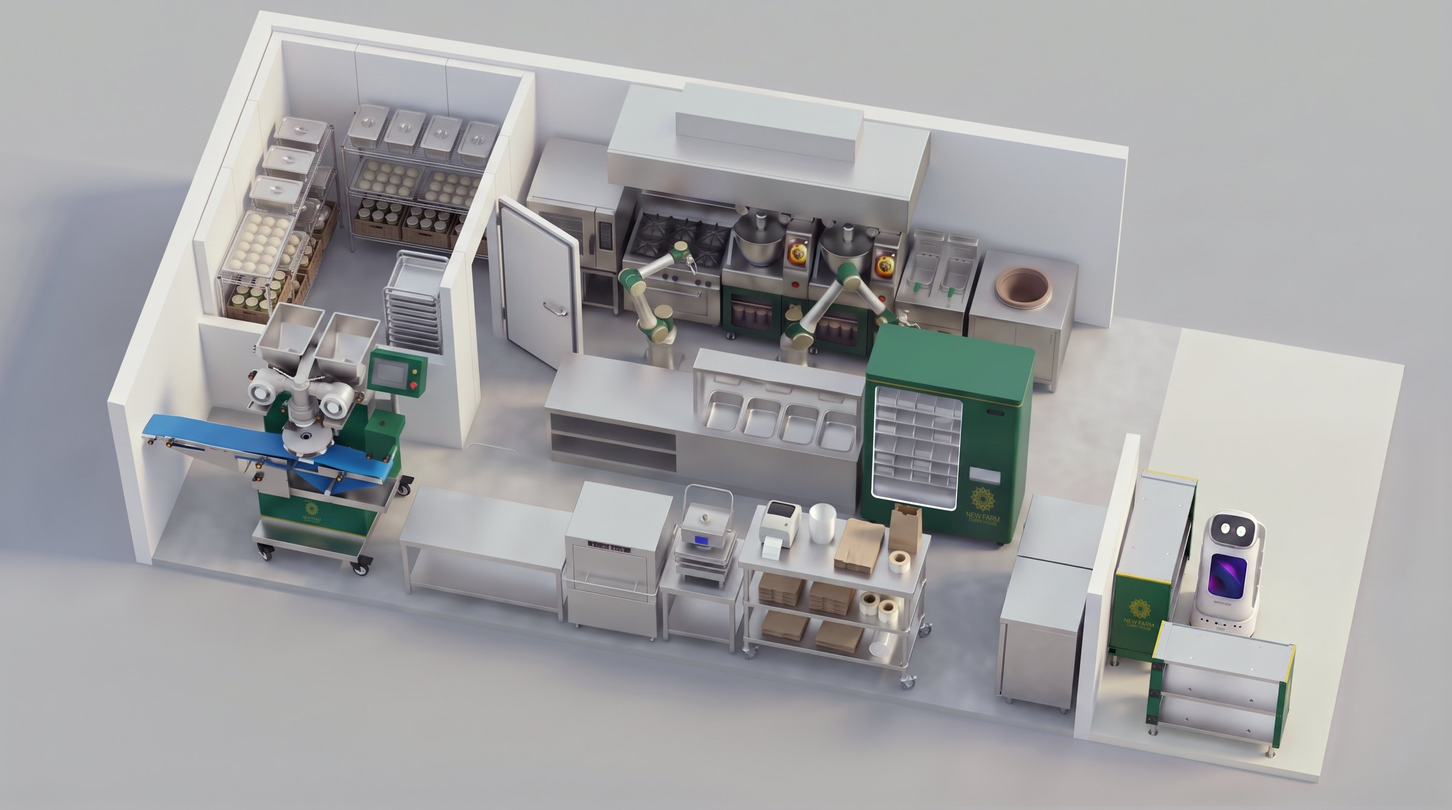
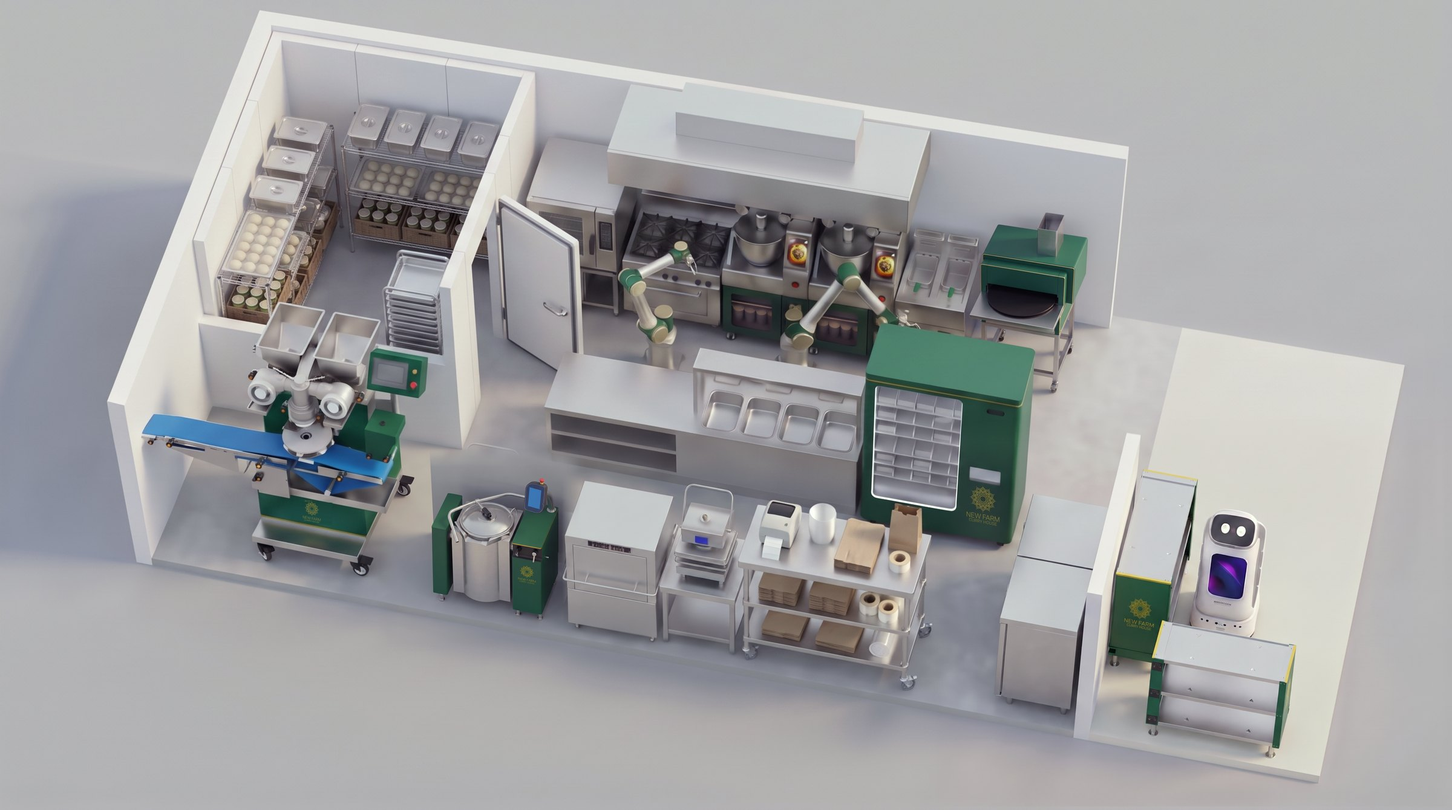
NFCH kitchen deck: the turning oven, the gravy kettle and the mixer
The tandoor page becomes the turning naan oven, the burners page becomes
the gravy kettle (the bases move to it), the dough page shows the mixer,
the bases page says the kettle cooks them, and the Later page goes: both
machines on it are now in the kitchen. To settle folds the oven trial
into one bread item, so the page still fits.

Changed region(s): [[0.2812, 0.5507, 0.4062, 0.7649], [0.6562, 0.2448, 0.75, 0.4896]]

diff --git a/deck/new-farm-curry-house-kitchen/index.html b/deck/new-farm-curry-house-kitchen/index.html
@@ -667,36 +667,33 @@
 <section class="stage" id="s2" data-nk="machines" aria-label="Slide 2. The plan">
   <div class="slide"><div class="in nf nk">
     <p class="lab r">The plan</p>
-    <h2 class="l r">Your line, rearranged around two arms, with fourteen new pieces in all.</h2>
+    <h2 class="l r">Your line, rearranged around two arms, with seventeen new pieces in all.</h2>
     <div class="nk-plan r">
-      <div><h3>Yours, as they are</h3><ul class="nk-dishes"><li>Cold room</li><li>Dry store</li><li>Combi oven</li><li>Six burners</li><li>Twin fryer</li><li>Clay tandoor</li><li>Island fridges</li><li>Bar</li></ul></div>
-      <div><h3>New</h3><ul class="nk-dishes"><li>Line fridge</li><li>Finishing stations</li><li>Curry arm</li><li>Fry arm</li><li>Bowls and tubs</li><li>Filling machine</li><li>Naan press</li><li>Hot hold</li><li>The pass</li><li>Pack bench</li><li>Label printer</li><li>Heated shelf</li><li>Driver shelf</li><li>The server</li></ul></div>
-      <div><h3>Out, and to find</h3><ul class="nk-dishes"><li>Stock pot boiler, comes out</li><li>Freezer, to find</li><li>Spiral mixer, to find</li></ul></div>
+      <div><h3>Yours, as they are</h3><ul class="nk-dishes"><li>Cold room</li><li>Dry store</li><li>Combi oven</li><li>Six burners</li><li>Twin fryer</li><li>Island fridges</li><li>Bar</li></ul></div>
+      <div><h3>New</h3><ul class="nk-dishes"><li>Turning naan oven</li><li>Gravy kettle</li><li>Line fridge</li><li>Finishing stations</li><li>Curry arm</li><li>Fry arm</li><li>Bowls and tubs</li><li>Filling machine</li><li>Naan press</li><li>Hot hold</li><li>The pass</li><li>Pack bench</li><li>Label printer</li><li>Heated shelf</li><li>Driver shelf</li><li>The server</li><li>Spiral mixer</li></ul></div>
+      <div><h3>Out, and to find</h3><ul class="nk-dishes"><li>Stock pot boiler, comes out</li><li>Clay tandoor, comes out</li><li>Freezer, to find</li></ul></div>
     </div>
     <div class="foot"><p>New Farm Curry House: concept</p><p>02</p></div>
   </div></div>
 </section>
 
-<section class="stage" id="s3" data-nk="machines" aria-label="Slide 3. Your six burners">
-  <div class="slide"><div class="in nf nk nk-pg">
-    <p class="lab r">Your six burners</p>
-    <h2 class="l r">The six bases before opening, the chef&#x27;s own dishes after.</h2>
-    <p class="lede r">The stock pot boiler comes out to make room for the arms. Each base cooks in a big pot on the burners before service, from a sealed spice kit Chef Mahesh weighed, so the recipe stays his and never lives in a machine.</p>
+<section class="stage" id="s3" data-nk="machines" aria-label="Slide 3. New: the gravy kettle">
+  <div class="slide"><div class="in nf nk nk-pg nk-has-pic">
+    <p class="lab r">New: the gravy kettle</p>
+    <h2 class="l r">The six bases cook and stir themselves; your burners belong to the chef again.</h2>
+    <p class="lede r">By the cold room, under its own hood: each base cooks from Chef Mahesh&#x27;s sealed spice kit to his program, then chills next door.</p>
+    <div class="nk-figs r"><figure class="nk-pic"><img src="../../img/deck/nfch/machines/gravy-kettle-light.jpg" width="1208" height="1500" alt="Gravy kettle, concept render" loading="lazy"><figcaption>Concept render</figcaption></figure></div>
     <dl class="nk-mach r">
-      <dt class="nk-st">Six burners</dt><dd class="nk-st"></dd>
+      <dt class="nk-st">Gravy kettle<span class="nk-new">New</span></dt><dd class="nk-st"></dd>
       <dt>Cooks the six bases before service</dt>
       <dd><ul class="nk-dishes"><li>Butter Chicken</li><li>Paneer Butter Masala</li><li>Chicken Tikka Masala</li><li>Murg Balti</li><li>Chicken Curry</li><li>Lamb Rogan Josh</li><li>Aloo Baingan Bagarey</li><li>Chicken Korma</li><li>Lamb Korma</li><li>Chicken Cashew</li><li>Lamb Cashew</li><li>Chicken Vindaloo</li><li>Beef Vindaloo</li><li>Beef Goan</li><li>Prawn Goan</li><li>Palak Paneer</li><li>Aloo Gobhi</li><li>Goat Curry</li><li>Eggplant Pasanda</li><li>Butter Chicken Burrito</li><li>Paneer Butter Masala Burrito</li></ul></dd>
+      <dt class="nk-st">Six burners</dt><dd class="nk-st"></dd>
       <dt>Pan dishes to order</dt>
       <dd><ul class="nk-dishes"><li>Aloo Gobhi</li></ul></dd>
       <dt>The tadka</dt>
       <dd><ul class="nk-dishes"><li>Tadka Daal</li></ul></dd>
       <dt>By hand, the chef&#x27;s own</dt>
       <dd><ul class="nk-dishes"><li>Chicken Nilgiri</li><li>Eggplant Pasanda</li></ul></dd>
-      <dt class="nk-st">Dry store</dt><dd class="nk-st"></dd>
-      <dt>Holds the flour</dt>
-      <dd><ul class="nk-dishes"><li>Plain Naan</li><li>Garlic Naan</li><li>Cheese and Garlic Naan</li><li>Spinach and Cheese Naan</li><li>Tasty Cheese Naan</li><li>Roti Naan</li></ul></dd>
-      <dt>Holds the wraps</dt>
-      <dd><ul class="nk-dishes"><li>Butter Chicken Burrito</li><li>Paneer Butter Masala Burrito</li></ul></dd>
     </dl>
     <div class="foot"><p>New Farm Curry House: concept</p><p>03</p></div>
   </div></div>
@@ -732,14 +729,16 @@
   </div></div>
 </section>
 
-<section class="stage" id="s5" data-nk="machines" aria-label="Slide 5. Your tandoor">
-  <div class="slide"><div class="in nf nk nk-pg">
-    <p class="lab r">Your tandoor</p>
-    <h2 class="l r">Where the bread stays in the tandoor cook&#x27;s hands.</h2>
+<section class="stage" id="s5" data-nk="machines" aria-label="Slide 5. New: the turning naan oven">
+  <div class="slide"><div class="in nf nk nk-pg nk-has-pic">
+    <p class="lab r">New: the turning naan oven</p>
+    <h2 class="l r">Naan, roti and paratha come round baked, up to 300 an hour.</h2>
+    <p class="lede r">In your tandoor&#x27;s corner, the oven you found: a pressed ball goes on the hot plate and comes round baked. The tikka grills on it too, to trial against your tandoor before the tandoor goes.</p>
+    <div class="nk-figs r"><figure class="nk-pic"><img src="../../img/deck/nfch/machines/naan-oven-light.jpg" width="1208" height="1500" alt="Turning naan oven, concept render" loading="lazy"><figcaption>Concept render</figcaption></figure></div>
     <dl class="nk-mach r">
       <dt>Bakes the breads</dt>
       <dd><ul class="nk-dishes"><li>Plain Naan</li><li>Garlic Naan</li><li>Cheese and Garlic Naan</li><li>Spinach and Cheese Naan</li><li>Tasty Cheese Naan</li><li>Roti Naan</li><li>Laccha Paratha</li></ul></dd>
-      <dt>Cooks the tikka</dt>
+      <dt>Grills the tikka</dt>
       <dd><ul class="nk-dishes"><li>Chicken Tikka</li></ul></dd>
     </dl>
     <div class="foot"><p>New Farm Curry House: concept</p><p>05</p></div>
@@ -839,8 +838,8 @@
   <div class="slide"><div class="in nf nk nk-pg nk-has-pic nk-has-pics">
     <p class="lab r">New: the filling machine and the press</p>
     <h2 class="l r">Your idea: every naan the same, filled or plain.</h2>
-    <p class="lede r">Dough mixed the afternoon before rests cold overnight, then goes in the hopper with the filling and the machine closes each ball. When an order comes in, a ball is pressed flat, stretched by hand into its teardrop and onto your tandoor wall.</p>
-    <div class="nk-figs r"><figure class="nk-pic"><img src="../../img/deck/nfch/machines/filling-machine-light.jpg" width="1208" height="1500" alt="filling machine, concept: filling machine" loading="lazy"><figcaption>Concept: filling machine</figcaption></figure><figure class="nk-pic"><img src="../../img/deck/nfch/machines/naan-press-light.jpg" width="1208" height="1500" alt="naan press, concept: naan press" loading="lazy"><figcaption>Concept: naan press</figcaption></figure></div>
+    <p class="lede r">The mixer kneads the dough the afternoon before; it rests cold overnight, then the filling machine closes each ball. When an order comes in, a ball is pressed flat and goes onto the turning oven.</p>
+    <div class="nk-figs r"><figure class="nk-pic"><img src="../../img/deck/nfch/machines/mixer-light.jpg" width="1208" height="1500" alt="spiral mixer, concept: spiral mixer" loading="lazy"><figcaption>Concept: spiral mixer</figcaption></figure><figure class="nk-pic"><img src="../../img/deck/nfch/machines/filling-machine-light.jpg" width="1208" height="1500" alt="filling machine, concept: filling machine" loading="lazy"><figcaption>Concept: filling machine</figcaption></figure><figure class="nk-pic"><img src="../../img/deck/nfch/machines/naan-press-light.jpg" width="1208" height="1500" alt="naan press, concept: naan press" loading="lazy"><figcaption>Concept: naan press</figcaption></figure></div>
     <dl class="nk-mach r">
       <dt class="nk-st">Filling machine<span class="nk-new">New</span></dt><dd class="nk-st"></dd>
       <dt>Closes the dough balls</dt>
@@ -893,7 +892,7 @@
       <div><h3>Goan</h3><p>Beef Goan, Prawn Goan</p></div>
       <div><h3>Palak</h3><p>Palak Paneer</p></div>
     </div>
-    <ul class="nk-dishes r"><li>Cooked in big pots on your burners, before service</li><li>Chicken Nilgiri and Tadka Daal stand on their own</li></ul>
+    <ul class="nk-dishes r"><li>Cooked in the gravy kettle before service, to Chef Mahesh&rsquo;s program</li><li>Chicken Nilgiri and Tadka Daal stand on their own</li></ul>
     <div class="foot"><p>New Farm Curry House: concept</p><p>13</p></div>
   </div></div>
 </section>
@@ -950,7 +949,7 @@
   <div class="slide"><div class="in nf nk">
     <p class="lab r">One order, start to finish</p>
     <h2 class="l r">A butter chicken, from the morning pot to the table or the driver's bag.</h2>
-    <ol class="nk-track r" style="grid-template-rows:repeat(4,auto)"><li><b>Six burners</b><span>Before service: tadka in ghee, then the makhani base in a big pot on the burners, stirred, about two hours</span><i>2 h</i></li><li><b>Cold room</b><span>Chicken breast in the tandoori marinade, overnight</span></li><li><b>Combi oven</b><span>Roasted on trays, combi steam and dry heat, 18 minutes, then diced</span><i>18 min</i></li><li><b>Cold room</b><span>Base and protein weighed into one kit pot per dish, lidded, labelled</span></li><li><b>Line fridge</b><span>Hands out the Butter Chicken kit to the arm: makhani base, tandoori chicken and a cube of butter</span><i>20 s</i></li><li><b>Curry arm</b><span>The curry arm tips the kit into a free drum</span><i>15 s</i></li><li><b>Finishing stations</b><span>The station heats and stirs it, then measures in cream, by weight, to the chef&#x27;s program</span><i>2.5 min</i></li><li><b>Finishing stations</b><span>A full rinse, because this gravy carries nuts</span><i>45 s</i></li><li><b>Bowls and tubs</b><span>A bowl for the table or a tub for a driver, as the order says</span><i>3 s</i></li><li><b>Curry arm</b><span>The arm pours it into the bowl or tub and sets it on the pass</span><i>20 s</i></li><li class="nk-end"><b>Dine-in: the pass</b><span>Into the serving bowl, finished with a swirl of cream</span><i>25 s</i></li><li class="nk-end"><b>Delivery: the pack bench</b><span>Into a 650 ml tub, lid pressed down, a swirl of cream in a side pot so it arrives fresh</span><i>35 s</i></li></ol>
+    <ol class="nk-track r" style="grid-template-rows:repeat(4,auto)"><li><b>Gravy kettle</b><span>Before service: the tadka in ghee, then the makhani base, cooked and stirred by the kettle to Chef Mahesh&#x27;s program, about two hours</span><i>2 h</i></li><li><b>Cold room</b><span>Chicken breast in the tandoori marinade, overnight</span></li><li><b>Combi oven</b><span>Roasted on trays, combi steam and dry heat, 18 minutes, then diced</span><i>18 min</i></li><li><b>Cold room</b><span>Base and protein weighed into one kit pot per dish, lidded, labelled</span></li><li><b>Line fridge</b><span>Hands out the Butter Chicken kit to the arm: makhani base, tandoori chicken and a cube of butter</span><i>20 s</i></li><li><b>Curry arm</b><span>The curry arm tips the kit into a free drum</span><i>15 s</i></li><li><b>Finishing stations</b><span>The station heats and stirs it, then measures in cream, by weight, to the chef&#x27;s program</span><i>2.5 min</i></li><li><b>Finishing stations</b><span>A full rinse, because this gravy carries nuts</span><i>45 s</i></li><li><b>Bowls and tubs</b><span>A bowl for the table or a tub for a driver, as the order says</span><i>3 s</i></li><li><b>Curry arm</b><span>The arm pours it into the bowl or tub and sets it on the pass</span><i>20 s</i></li><li class="nk-end"><b>Dine-in: the pass</b><span>Into the serving bowl, finished with a swirl of cream</span><i>25 s</i></li><li class="nk-end"><b>Delivery: the pack bench</b><span>Into a 650 ml tub, lid pressed down, a swirl of cream in a side pot so it arrives fresh</span><i>35 s</i></li></ol>
     <div class="foot"><p>New Farm Curry House: concept</p><p>17</p></div>
   </div></div>
 </section>
@@ -991,19 +990,7 @@
   </div></div>
 </section>
 
-<section class="stage" id="s21" aria-label="Slide 21. Later">
-  <div class="slide"><div class="in nf nk">
-    <p class="lab r">Later</p>
-    <h2 class="l r">Two machines wait until your kitchen asks for them.</h2>
-    <div class="three r">
-      <div><h3>A self-stirring kettle</h3><p>The bases cook for hours with nobody at the pot. It saves the most hours of anything here, so it comes first when you are ready.</p></div>
-      <div><h3>A turning naan oven</h3><p>Naan without a tandoor cook. Worth its place only if the tandoor is to retire.</p></div>
-    </div>
-    <div class="foot"><p>New Farm Curry House: concept</p><p>21</p></div>
-  </div></div>
-</section>
-
-<section class="stage" id="s22" data-nk="settle" aria-label="Slide 22. To settle">
+<section class="stage" id="s21" data-nk="settle" aria-label="Slide 21. To settle">
   <div class="slide"><div class="in nf nk">
     <p class="lab r">To settle</p>
     <h2 class="l r">Six answers from your kitchen, before anything is ordered.</h2>
@@ -1011,24 +998,24 @@
       <div><h3>The six bases</h3><p>Whether your curries sit on six gravies, whether Tikka Masala and Balti start from makhani or masala, and how much of each spice, paste and cream the stations measure in at the finish.</p></div>
       <div><h3>Your busiest hour</h3><p>Played on the kitchen screen with the arms: two finishing stations serve a busy night of forty orders in about sixteen minutes a table, and a Friday of sixty in about eighteen with a second cook at the burners. On one station, the busy night waits thirty-seven. How many do you send on a Friday at eight?</p></div>
       <div><h3>Nuts</h3><p>Eleven dishes from the station carry almond or cashew. One station rinsed after each, or two: one for nut gravies, one nut free, which also answers the busy night.</p></div>
-      <div><h3>Your dough</h3><p>A trial of your naan dough on the filling machine, plain and with cheese; your mixer, as your plan shows none, and a busy night&#x27;s naan count; your rest times; and whether the laccha stays rolled by hand or comes in frozen.</p></div>
-      <div><h3>Your line, up close</h3><p>Photos of the line, the plates on the combi, burners, fryer and tandoor, and where your freezer is.</p></div>
+      <div><h3>Your breads</h3><p>Your dough through the mixer and filling machine, and your naan, roti and tikka on the turning oven beside your tandoor before it goes; a busy night&#x27;s naan count; laccha by hand or frozen.</p></div>
+      <div><h3>Your line, up close</h3><p>Photos of the line, the plates on the combi, burners and fryer, your back bench, and where your freezer is.</p></div>
       <div><h3>Power and water</h3><p>Three-phase to the two finishing stations, power and a network point for the arms and the line fridge, a look at your switchboard, a hand basin and a pre-rinse sink, neither drawn on your plan.</p></div>
     </div>
-    <div class="foot"><p>New Farm Curry House: concept</p><p>22</p></div>
+    <div class="foot"><p>New Farm Curry House: concept</p><p>21</p></div>
   </div></div>
 </section>
 
-<section class="stage" id="s23" aria-label="Slide 23. Ownership">
+<section class="stage" id="s22" aria-label="Slide 22. Ownership">
   <div class="slide"><div class="in say-it own nf">
     <p class="lab r">Ownership</p>
     <h2 class="big r">This concept is ours until it is yours.</h2>
     <p class="own-text r">The concepts in this deck, the stations, the plan for your line, the dish tracks and the kitchen screen, the match of your menu to the machines that cook it and the way the spices are kept, and this deck itself, belong to Wonder Byte Technology Pty Ltd (ACN 649 247 156), trading as Wonder Robotics, and are shared in confidence for evaluation only. Without a signed agreement and the deposit paid, none of it may be used, copied, adapted, shared or built, and nor may anything substantially similar to it in look, layout or design, by you or by anyone acting for you. The New Farm Curry House name, marks, menu and recipes are yours, and so are your own ideas in it, the filled naan among them.</p>
-    <div class="foot"><p>&copy; 2026 Wonder Byte Technology Pty Ltd, trading as Wonder Robotics</p><p>23</p></div>
+    <div class="foot"><p>&copy; 2026 Wonder Byte Technology Pty Ltd, trading as Wonder Robotics</p><p>22</p></div>
   </div></div>
 </section>
 
-<section class="stage" id="s24" aria-label="Slide 24. Wonder Robotics, Fortitude Valley">
+<section class="stage" id="s23" aria-label="Slide 23. Wonder Robotics, Fortitude Valley">
   <div class="slide"><div class="in hero">
     <picture><source media="(max-width:760px)" srcset="../../img/hero-bot.jpg"><img class="bg" src="../../img/hero-bot-wide.jpg" width="4800" height="1340" alt="W-1, the Wonder robot, in his studio"></picture>
     <div class="wrap">
@@ -1044,7 +1031,7 @@
 </section>
 <script src="/shared/viewed.js" defer></script>
 
-<section class="stage" id="s25" aria-label="Slide 25. Wonder Robotics, Fortitude Valley">
+<section class="stage" id="s24" aria-label="Slide 24. Wonder Robotics, Fortitude Valley">
   <div class="slide"><div class="in hero">
     <picture><source media="(max-width:760px)" srcset="../../img/hero-bot.jpg"><img class="bg" src="../../img/hero-bot-wide.jpg" width="4800" height="1340" alt="W-1, the Wonder robot, in his studio"></picture>
     <div class="wrap">
@@ -1133,7 +1120,7 @@
 
 <nav class="nav" aria-label="Slide controls">
   <button type="button" id="prev" aria-label="Previous slide">&#8592;</button>
-  <output id="count" aria-live="polite">01 / 25</output>
+  <output id="count" aria-live="polite">01 / 24</output>
   <button type="button" id="next" aria-label="Next slide">&#8594;</button>
   <button type="button" id="full" aria-label="Full screen">&#x26F6;</button>
 </nav>

diff --git a/src/new-farm-curry-house-kitchen-slides.html b/src/new-farm-curry-house-kitchen-slides.html
@@ -165,36 +165,33 @@
 <section class="stage" id="s{{i}}" data-nk="machines" aria-label="Slide {{i}}. The plan">
   <div class="slide"><div class="in nf nk">
     <p class="lab r">The plan</p>
-    <h2 class="l r">Your line, rearranged around two arms, with fourteen new pieces in all.</h2>
+    <h2 class="l r">Your line, rearranged around two arms, with seventeen new pieces in all.</h2>
     <div class="nk-plan r">
-      <div><h3>Yours, as they are</h3><ul class="nk-dishes"><li>Cold room</li><li>Dry store</li><li>Combi oven</li><li>Six burners</li><li>Twin fryer</li><li>Clay tandoor</li><li>Island fridges</li><li>Bar</li></ul></div>
-      <div><h3>New</h3><ul class="nk-dishes"><li>Line fridge</li><li>Finishing stations</li><li>Curry arm</li><li>Fry arm</li><li>Bowls and tubs</li><li>Filling machine</li><li>Naan press</li><li>Hot hold</li><li>The pass</li><li>Pack bench</li><li>Label printer</li><li>Heated shelf</li><li>Driver shelf</li><li>The server</li></ul></div>
-      <div><h3>Out, and to find</h3><ul class="nk-dishes"><li>Stock pot boiler, comes out</li><li>Freezer, to find</li><li>Spiral mixer, to find</li></ul></div>
+      <div><h3>Yours, as they are</h3><ul class="nk-dishes"><li>Cold room</li><li>Dry store</li><li>Combi oven</li><li>Six burners</li><li>Twin fryer</li><li>Island fridges</li><li>Bar</li></ul></div>
+      <div><h3>New</h3><ul class="nk-dishes"><li>Turning naan oven</li><li>Gravy kettle</li><li>Line fridge</li><li>Finishing stations</li><li>Curry arm</li><li>Fry arm</li><li>Bowls and tubs</li><li>Filling machine</li><li>Naan press</li><li>Hot hold</li><li>The pass</li><li>Pack bench</li><li>Label printer</li><li>Heated shelf</li><li>Driver shelf</li><li>The server</li><li>Spiral mixer</li></ul></div>
+      <div><h3>Out, and to find</h3><ul class="nk-dishes"><li>Stock pot boiler, comes out</li><li>Clay tandoor, comes out</li><li>Freezer, to find</li></ul></div>
     </div>
     <div class="foot"><p>New Farm Curry House: concept</p><p>{{n}}</p></div>
   </div></div>
 </section>
 
-<section class="stage" id="s{{i}}" data-nk="machines" aria-label="Slide {{i}}. Your six burners">
-  <div class="slide"><div class="in nf nk nk-pg">
-    <p class="lab r">Your six burners</p>
-    <h2 class="l r">The six bases before opening, the chef&#x27;s own dishes after.</h2>
-    <p class="lede r">The stock pot boiler comes out to make room for the arms. Each base cooks in a big pot on the burners before service, from a sealed spice kit Chef Mahesh weighed, so the recipe stays his and never lives in a machine.</p>
+<section class="stage" id="s{{i}}" data-nk="machines" aria-label="Slide {{i}}. New: the gravy kettle">
+  <div class="slide"><div class="in nf nk nk-pg nk-has-pic">
+    <p class="lab r">New: the gravy kettle</p>
+    <h2 class="l r">The six bases cook and stir themselves; your burners belong to the chef again.</h2>
+    <p class="lede r">By the cold room, under its own hood: each base cooks from Chef Mahesh&#x27;s sealed spice kit to his program, then chills next door.</p>
+    <div class="nk-figs r"><figure class="nk-pic"><img src="{{root}}img/deck/nfch/machines/gravy-kettle-light.jpg" width="1208" height="1500" alt="Gravy kettle, concept render" loading="lazy"><figcaption>Concept render</figcaption></figure></div>
     <dl class="nk-mach r">
-      <dt class="nk-st">Six burners</dt><dd class="nk-st"></dd>
+      <dt class="nk-st">Gravy kettle<span class="nk-new">New</span></dt><dd class="nk-st"></dd>
       <dt>Cooks the six bases before service</dt>
       <dd><ul class="nk-dishes"><li>Butter Chicken</li><li>Paneer Butter Masala</li><li>Chicken Tikka Masala</li><li>Murg Balti</li><li>Chicken Curry</li><li>Lamb Rogan Josh</li><li>Aloo Baingan Bagarey</li><li>Chicken Korma</li><li>Lamb Korma</li><li>Chicken Cashew</li><li>Lamb Cashew</li><li>Chicken Vindaloo</li><li>Beef Vindaloo</li><li>Beef Goan</li><li>Prawn Goan</li><li>Palak Paneer</li><li>Aloo Gobhi</li><li>Goat Curry</li><li>Eggplant Pasanda</li><li>Butter Chicken Burrito</li><li>Paneer Butter Masala Burrito</li></ul></dd>
+      <dt class="nk-st">Six burners</dt><dd class="nk-st"></dd>
       <dt>Pan dishes to order</dt>
       <dd><ul class="nk-dishes"><li>Aloo Gobhi</li></ul></dd>
       <dt>The tadka</dt>
       <dd><ul class="nk-dishes"><li>Tadka Daal</li></ul></dd>
       <dt>By hand, the chef&#x27;s own</dt>
       <dd><ul class="nk-dishes"><li>Chicken Nilgiri</li><li>Eggplant Pasanda</li></ul></dd>
-      <dt class="nk-st">Dry store</dt><dd class="nk-st"></dd>
-      <dt>Holds the flour</dt>
-      <dd><ul class="nk-dishes"><li>Plain Naan</li><li>Garlic Naan</li><li>Cheese and Garlic Naan</li><li>Spinach and Cheese Naan</li><li>Tasty Cheese Naan</li><li>Roti Naan</li></ul></dd>
-      <dt>Holds the wraps</dt>
-      <dd><ul class="nk-dishes"><li>Butter Chicken Burrito</li><li>Paneer Butter Masala Burrito</li></ul></dd>
     </dl>
     <div class="foot"><p>New Farm Curry House: concept</p><p>{{n}}</p></div>
   </div></div>
@@ -230,14 +227,16 @@
   </div></div>
 </section>
 
-<section class="stage" id="s{{i}}" data-nk="machines" aria-label="Slide {{i}}. Your tandoor">
-  <div class="slide"><div class="in nf nk nk-pg">
-    <p class="lab r">Your tandoor</p>
-    <h2 class="l r">Where the bread stays in the tandoor cook&#x27;s hands.</h2>
+<section class="stage" id="s{{i}}" data-nk="machines" aria-label="Slide {{i}}. New: the turning naan oven">
+  <div class="slide"><div class="in nf nk nk-pg nk-has-pic">
+    <p class="lab r">New: the turning naan oven</p>
+    <h2 class="l r">Naan, roti and paratha come round baked, up to 300 an hour.</h2>
+    <p class="lede r">In your tandoor&#x27;s corner, the oven you found: a pressed ball goes on the hot plate and comes round baked. The tikka grills on it too, to trial against your tandoor before the tandoor goes.</p>
+    <div class="nk-figs r"><figure class="nk-pic"><img src="{{root}}img/deck/nfch/machines/naan-oven-light.jpg" width="1208" height="1500" alt="Turning naan oven, concept render" loading="lazy"><figcaption>Concept render</figcaption></figure></div>
     <dl class="nk-mach r">
       <dt>Bakes the breads</dt>
       <dd><ul class="nk-dishes"><li>Plain Naan</li><li>Garlic Naan</li><li>Cheese and Garlic Naan</li><li>Spinach and Cheese Naan</li><li>Tasty Cheese Naan</li><li>Roti Naan</li><li>Laccha Paratha</li></ul></dd>
-      <dt>Cooks the tikka</dt>
+      <dt>Grills the tikka</dt>
       <dd><ul class="nk-dishes"><li>Chicken Tikka</li></ul></dd>
     </dl>
     <div class="foot"><p>New Farm Curry House: concept</p><p>{{n}}</p></div>
@@ -337,8 +336,8 @@
   <div class="slide"><div class="in nf nk nk-pg nk-has-pic nk-has-pics">
     <p class="lab r">New: the filling machine and the press</p>
     <h2 class="l r">Your idea: every naan the same, filled or plain.</h2>
-    <p class="lede r">Dough mixed the afternoon before rests cold overnight, then goes in the hopper with the filling and the machine closes each ball. When an order comes in, a ball is pressed flat, stretched by hand into its teardrop and onto your tandoor wall.</p>
-    <div class="nk-figs r"><figure class="nk-pic"><img src="{{root}}img/deck/nfch/machines/filling-machine-light.jpg" width="1208" height="1500" alt="filling machine, concept: filling machine" loading="lazy"><figcaption>Concept: filling machine</figcaption></figure><figure class="nk-pic"><img src="{{root}}img/deck/nfch/machines/naan-press-light.jpg" width="1208" height="1500" alt="naan press, concept: naan press" loading="lazy"><figcaption>Concept: naan press</figcaption></figure></div>
+    <p class="lede r">The mixer kneads the dough the afternoon before; it rests cold overnight, then the filling machine closes each ball. When an order comes in, a ball is pressed flat and goes onto the turning oven.</p>
+    <div class="nk-figs r"><figure class="nk-pic"><img src="{{root}}img/deck/nfch/machines/mixer-light.jpg" width="1208" height="1500" alt="spiral mixer, concept: spiral mixer" loading="lazy"><figcaption>Concept: spiral mixer</figcaption></figure><figure class="nk-pic"><img src="{{root}}img/deck/nfch/machines/filling-machine-light.jpg" width="1208" height="1500" alt="filling machine, concept: filling machine" loading="lazy"><figcaption>Concept: filling machine</figcaption></figure><figure class="nk-pic"><img src="{{root}}img/deck/nfch/machines/naan-press-light.jpg" width="1208" height="1500" alt="naan press, concept: naan press" loading="lazy"><figcaption>Concept: naan press</figcaption></figure></div>
     <dl class="nk-mach r">
       <dt class="nk-st">Filling machine<span class="nk-new">New</span></dt><dd class="nk-st"></dd>
       <dt>Closes the dough balls</dt>
@@ -391,7 +390,7 @@
       <div><h3>Goan</h3><p>Beef Goan, Prawn Goan</p></div>
       <div><h3>Palak</h3><p>Palak Paneer</p></div>
     </div>
-    <ul class="nk-dishes r"><li>Cooked in big pots on your burners, before service</li><li>Chicken Nilgiri and Tadka Daal stand on their own</li></ul>
+    <ul class="nk-dishes r"><li>Cooked in the gravy kettle before service, to Chef Mahesh&rsquo;s program</li><li>Chicken Nilgiri and Tadka Daal stand on their own</li></ul>
     <div class="foot"><p>New Farm Curry House: concept</p><p>{{n}}</p></div>
   </div></div>
 </section>
@@ -448,7 +447,7 @@
   <div class="slide"><div class="in nf nk">
     <p class="lab r">One order, start to finish</p>
     <h2 class="l r">A butter chicken, from the morning pot to the table or the driver's bag.</h2>
-    <ol class="nk-track r" style="grid-template-rows:repeat(4,auto)"><li><b>Six burners</b><span>Before service: tadka in ghee, then the makhani base in a big pot on the burners, stirred, about two hours</span><i>2 h</i></li><li><b>Cold room</b><span>Chicken breast in the tandoori marinade, overnight</span></li><li><b>Combi oven</b><span>Roasted on trays, combi steam and dry heat, 18 minutes, then diced</span><i>18 min</i></li><li><b>Cold room</b><span>Base and protein weighed into one kit pot per dish, lidded, labelled</span></li><li><b>Line fridge</b><span>Hands out the Butter Chicken kit to the arm: makhani base, tandoori chicken and a cube of butter</span><i>20 s</i></li><li><b>Curry arm</b><span>The curry arm tips the kit into a free drum</span><i>15 s</i></li><li><b>Finishing stations</b><span>The station heats and stirs it, then measures in cream, by weight, to the chef&#x27;s program</span><i>2.5 min</i></li><li><b>Finishing stations</b><span>A full rinse, because this gravy carries nuts</span><i>45 s</i></li><li><b>Bowls and tubs</b><span>A bowl for the table or a tub for a driver, as the order says</span><i>3 s</i></li><li><b>Curry arm</b><span>The arm pours it into the bowl or tub and sets it on the pass</span><i>20 s</i></li><li class="nk-end"><b>Dine-in: the pass</b><span>Into the serving bowl, finished with a swirl of cream</span><i>25 s</i></li><li class="nk-end"><b>Delivery: the pack bench</b><span>Into a 650 ml tub, lid pressed down, a swirl of cream in a side pot so it arrives fresh</span><i>35 s</i></li></ol>
+    <ol class="nk-track r" style="grid-template-rows:repeat(4,auto)"><li><b>Gravy kettle</b><span>Before service: the tadka in ghee, then the makhani base, cooked and stirred by the kettle to Chef Mahesh&#x27;s program, about two hours</span><i>2 h</i></li><li><b>Cold room</b><span>Chicken breast in the tandoori marinade, overnight</span></li><li><b>Combi oven</b><span>Roasted on trays, combi steam and dry heat, 18 minutes, then diced</span><i>18 min</i></li><li><b>Cold room</b><span>Base and protein weighed into one kit pot per dish, lidded, labelled</span></li><li><b>Line fridge</b><span>Hands out the Butter Chicken kit to the arm: makhani base, tandoori chicken and a cube of butter</span><i>20 s</i></li><li><b>Curry arm</b><span>The curry arm tips the kit into a free drum</span><i>15 s</i></li><li><b>Finishing stations</b><span>The station heats and stirs it, then measures in cream, by weight, to the chef&#x27;s program</span><i>2.5 min</i></li><li><b>Finishing stations</b><span>A full rinse, because this gravy carries nuts</span><i>45 s</i></li><li><b>Bowls and tubs</b><span>A bowl for the table or a tub for a driver, as the order says</span><i>3 s</i></li><li><b>Curry arm</b><span>The arm pours it into the bowl or tub and sets it on the pass</span><i>20 s</i></li><li class="nk-end"><b>Dine-in: the pass</b><span>Into the serving bowl, finished with a swirl of cream</span><i>25 s</i></li><li class="nk-end"><b>Delivery: the pack bench</b><span>Into a 650 ml tub, lid pressed down, a swirl of cream in a side pot so it arrives fresh</span><i>35 s</i></li></ol>
     <div class="foot"><p>New Farm Curry House: concept</p><p>{{n}}</p></div>
   </div></div>
 </section>
@@ -489,18 +488,6 @@
   </div></div>
 </section>
 
-<section class="stage" id="s{{i}}" aria-label="Slide {{i}}. Later">
-  <div class="slide"><div class="in nf nk">
-    <p class="lab r">Later</p>
-    <h2 class="l r">Two machines wait until your kitchen asks for them.</h2>
-    <div class="three r">
-      <div><h3>A self-stirring kettle</h3><p>The bases cook for hours with nobody at the pot. It saves the most hours of anything here, so it comes first when you are ready.</p></div>
-      <div><h3>A turning naan oven</h3><p>Naan without a tandoor cook. Worth its place only if the tandoor is to retire.</p></div>
-    </div>
-    <div class="foot"><p>New Farm Curry House: concept</p><p>{{n}}</p></div>
-  </div></div>
-</section>
-
 <section class="stage" id="s{{i}}" data-nk="settle" aria-label="Slide {{i}}. To settle">
   <div class="slide"><div class="in nf nk">
     <p class="lab r">To settle</p>
@@ -509,8 +496,8 @@
       <div><h3>The six bases</h3><p>Whether your curries sit on six gravies, whether Tikka Masala and Balti start from makhani or masala, and how much of each spice, paste and cream the stations measure in at the finish.</p></div>
       <div><h3>Your busiest hour</h3><p>Played on the kitchen screen with the arms: two finishing stations serve a busy night of forty orders in about sixteen minutes a table, and a Friday of sixty in about eighteen with a second cook at the burners. On one station, the busy night waits thirty-seven. How many do you send on a Friday at eight?</p></div>
       <div><h3>Nuts</h3><p>Eleven dishes from the station carry almond or cashew. One station rinsed after each, or two: one for nut gravies, one nut free, which also answers the busy night.</p></div>
-      <div><h3>Your dough</h3><p>A trial of your naan dough on the filling machine, plain and with cheese; your mixer, as your plan shows none, and a busy night&#x27;s naan count; your rest times; and whether the laccha stays rolled by hand or comes in frozen.</p></div>
-      <div><h3>Your line, up close</h3><p>Photos of the line, the plates on the combi, burners, fryer and tandoor, and where your freezer is.</p></div>
+      <div><h3>Your breads</h3><p>Your dough through the mixer and filling machine, and your naan, roti and tikka on the turning oven beside your tandoor before it goes; a busy night&#x27;s naan count; laccha by hand or frozen.</p></div>
+      <div><h3>Your line, up close</h3><p>Photos of the line, the plates on the combi, burners and fryer, your back bench, and where your freezer is.</p></div>
       <div><h3>Power and water</h3><p>Three-phase to the two finishing stations, power and a network point for the arms and the line fridge, a look at your switchboard, a hand basin and a pre-rinse sink, neither drawn on your plan.</p></div>
     </div>
     <div class="foot"><p>New Farm Curry House: concept</p><p>{{n}}</p></div>
